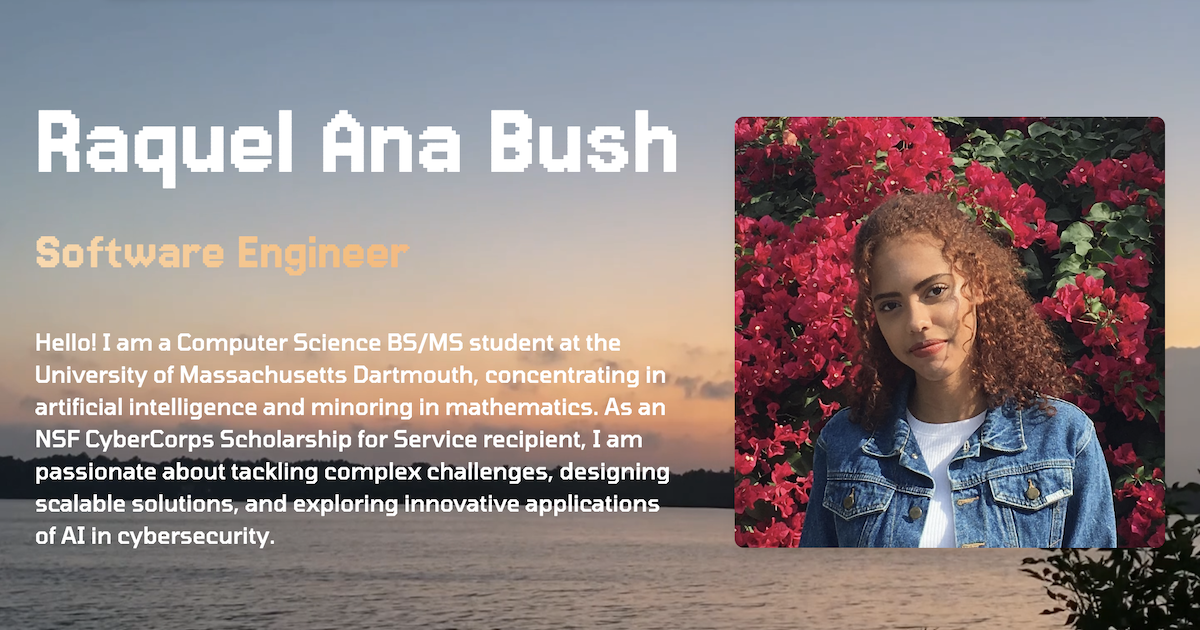
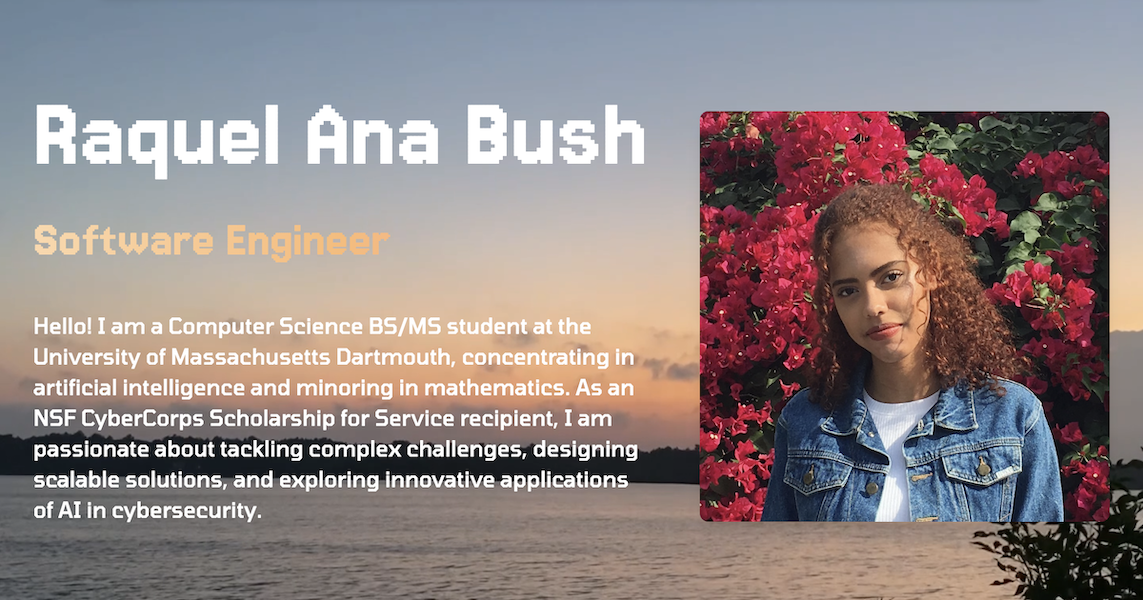
Updates

diff --git a/index.html b/index.html
@@ -1,1 +1,1 @@
-<!doctype html><html lang="en"><head><meta charset="utf-8"/><link rel="icon" href="/favicon.ico" type="image/x-icon"><link rel="preconnect" href="https://fonts.googleapis.com"><link rel="preconnect" href="https://fonts.gstatic.com" crossorigin><link href="https://fonts.googleapis.com/css2?family=Jersey+15&family=Major+Mono+Display&family=Tomorrow:ital,wght@0,100;0,200;0,300;0,400;0,500;0,600;0,700;0,800;0,900;1,100;1,200;1,300;1,400;1,500;1,600;1,700;1,800;1,900&family=Tourney:ital,wght@0,100..900;1,100..900&display=swap" rel="stylesheet"><meta name="viewport" content="width=device-width,initial-scale=1,viewport-fit=cover"/><meta name="theme-color" content="#748ea6"/><meta name="description" content="Raquel Bush's Personal Website"/><meta property="og:title" content="Raquel Ana Bush - Software Engineer"/><meta property="og:description" content="Explore Raquel's projects, skills, and professional journey."/><meta property="og:image" content="https://raquelbush.com/assets/images/og_preview_image.png"/><meta property="og:image:width" content="1200"/><meta property="og:image:height" content="630"/><meta property="og:url" content="https://raquelbush.com"/><meta property="og:type" content="website"/><meta name="twitter:card" content="summary_large_image"/><meta name="twitter:title" content="Raquel Ana Bush - Software Engineer"/><meta name="twitter:description" content="Explore Raquel's projects, skills, and professional journey."/><meta name="twitter:image" content="https://raquelbush.com/assets/images/twitter_preview_image.png"/><link rel="apple-touch-icon" href="/logo192.png"/><link rel="manifest" href="/manifest.json"/><title>Raquel Ana Bush - Personal Website</title><script defer="defer" src="/static/js/main.719541d7.js"></script><link href="/static/css/main.f4ee94cd.css" rel="stylesheet"></head><body><div class="background"></div><noscript>You need to enable JavaScript to run this app.</noscript><div id="root"></div></body></html>
+<!doctype html><html lang="en"><head><meta charset="utf-8"/><link rel="icon" href="/favicon.ico" type="image/x-icon"><link rel="preconnect" href="https://fonts.googleapis.com"><link rel="preconnect" href="https://fonts.gstatic.com" crossorigin><link href="https://fonts.googleapis.com/css2?family=Jersey+15&family=Major+Mono+Display&family=Tomorrow:ital,wght@0,100;0,200;0,300;0,400;0,500;0,600;0,700;0,800;0,900;1,100;1,200;1,300;1,400;1,500;1,600;1,700;1,800;1,900&family=Tourney:ital,wght@0,100..900;1,100..900&display=swap" rel="stylesheet"><meta name="viewport" content="width=device-width,initial-scale=1,viewport-fit=cover"/><meta name="theme-color" content="#748ea6"/><meta name="description" content="Raquel Bush's Personal Website"/><meta property="og:title" content="Raquel Ana Bush - Software Engineer"/><meta property="og:description" content="Explore Raquel's projects, skills, and professional journey."/><meta property="og:image" content="https://raquelbush.com/assets/images/og_preview_image2.png"/><meta property="og:image:width" content="1200"/><meta property="og:image:height" content="630"/><meta property="og:url" content="https://raquelbush.com"/><meta property="og:type" content="website"/><meta name="twitter:card" content="summary_large_image"/><meta name="twitter:title" content="Raquel Ana Bush - Software Engineer"/><meta name="twitter:description" content="Explore Raquel's projects, skills, and professional journey."/><meta name="twitter:image" content="https://raquelbush.com/assets/images/twitter_preview_image.png"/><link rel="apple-touch-icon" href="/logo192.png"/><link rel="manifest" href="/manifest.json"/><title>Raquel Ana Bush - Personal Website</title><script defer="defer" src="/static/js/main.719541d7.js"></script><link href="/static/css/main.f4ee94cd.css" rel="stylesheet"></head><body><div class="background"></div><noscript>You need to enable JavaScript to run this app.</noscript><div id="root"></div></body></html>
